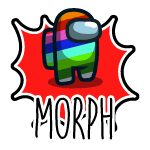
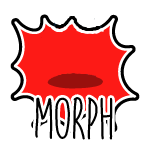
morphling show sampled player in button

Changed region(s): [[0.2667, 0.0533, 0.6933, 0.5867]]

diff --git a/TheOtherRoles/Buttons.cs b/TheOtherRoles/Buttons.cs
@@ -54,6 +54,7 @@ namespace TheOtherRoles
         public static Dictionary<byte, List<CustomButton>> deputyHandcuffedButtons = null;
 
         public static bool zoomOutStatus = false;
+        public static PoolablePlayer morphTargetDisplay;
 
         public static TMPro.TMP_Text securityGuardButtonScrewsText;
         public static TMPro.TMP_Text securityGuardChargesText;
@@ -413,6 +414,7 @@ namespace TheOtherRoles
             );
 
             // Morphling morph
+            
             morphlingButton = new CustomButton(
                 () => {
                     if (Morphling.sampledTarget != null) {
@@ -422,10 +424,25 @@ namespace TheOtherRoles
                         RPCProcedure.morphlingMorph(Morphling.sampledTarget.PlayerId);
                         Morphling.sampledTarget = null;
                         morphlingButton.EffectDuration = Morphling.duration;
+
                     } else if (Morphling.currentTarget != null) {
                         Morphling.sampledTarget = Morphling.currentTarget;
                         morphlingButton.Sprite = Morphling.getMorphSprite();
                         morphlingButton.EffectDuration = 1f;
+
+                        morphlingButton.actionButton.cooldownTimerText.transform.localPosition = new Vector3(0, 0, -1f);
+                        morphTargetDisplay = UnityEngine.Object.Instantiate<PoolablePlayer>(Patches.IntroCutsceneOnDestroyPatch.playerPrefab, morphlingButton.actionButton.transform);
+                        GameData.PlayerInfo data = Morphling.sampledTarget.Data;
+                        PlayerControl.SetPlayerMaterialColors(data.DefaultOutfit.ColorId, morphTargetDisplay.CurrentBodySprite.BodySprite);
+                        morphTargetDisplay.SetSkin(data.DefaultOutfit.SkinId, data.DefaultOutfit.ColorId);
+                        morphTargetDisplay.HatSlot.SetHat(data.DefaultOutfit.HatId, data.DefaultOutfit.ColorId);
+                        PlayerControl.SetPetImage(data.DefaultOutfit.PetId, data.DefaultOutfit.ColorId, morphTargetDisplay.PetSlot);
+                        morphTargetDisplay.NameText.text = data.PlayerName;
+
+                        morphTargetDisplay.transform.localPosition = new Vector3(0f, 0.2f, -0.01f);
+                        morphTargetDisplay.transform.localScale = Vector3.one * 0.33f;
+                        morphTargetDisplay.setSemiTransparent(false);
+                        morphTargetDisplay.gameObject.SetActive(true);
                     }
                 },
                 () => { return Morphling.morphling != null && Morphling.morphling == PlayerControl.LocalPlayer && !PlayerControl.LocalPlayer.Data.IsDead; },
@@ -436,6 +453,11 @@ namespace TheOtherRoles
                     morphlingButton.isEffectActive = false;
                     morphlingButton.actionButton.cooldownTimerText.color = Palette.EnabledColor;
                     Morphling.sampledTarget = null;
+                    if (morphTargetDisplay != null) {
+                        morphTargetDisplay.gameObject.SetActive(false);
+                        GameObject.Destroy(morphTargetDisplay.gameObject);
+                        morphTargetDisplay = null;
+                    }
                 },
                 Morphling.getSampleSprite(),
                 new Vector3(-1.8f, -0.06f, 0),
@@ -447,6 +469,10 @@ namespace TheOtherRoles
                     if (Morphling.sampledTarget == null) {
                         morphlingButton.Timer = morphlingButton.MaxTimer;
                         morphlingButton.Sprite = Morphling.getSampleSprite();
+
+                        morphTargetDisplay.gameObject.SetActive(false);
+                        GameObject.Destroy(morphTargetDisplay.gameObject);
+                        morphTargetDisplay = null;
                     }
                 }
             );

diff --git a/TheOtherRoles/Patches/IntroPatch.cs b/TheOtherRoles/Patches/IntroPatch.cs
@@ -10,6 +10,7 @@ namespace TheOtherRoles.Patches {
     [HarmonyPatch(typeof(IntroCutscene), nameof(IntroCutscene.OnDestroy))]
     class IntroCutsceneOnDestroyPatch
     {
+        public static PoolablePlayer playerPrefab;
         public static void Prefix(IntroCutscene __instance) {
             // Generate and initialize player icons
             int playerCounter = 0;
@@ -18,6 +19,7 @@ namespace TheOtherRoles.Patches {
                 foreach (PlayerControl p in PlayerControl.AllPlayerControls) {
                     GameData.PlayerInfo data = p.Data;
                     PoolablePlayer player = UnityEngine.Object.Instantiate<PoolablePlayer>(__instance.PlayerPrefab, HudManager.Instance.transform);
+                    playerPrefab = __instance.PlayerPrefab;
                     PlayerControl.SetPlayerMaterialColors(data.DefaultOutfit.ColorId, player.CurrentBodySprite.BodySprite);
                     player.SetSkin(data.DefaultOutfit.SkinId, data.DefaultOutfit.ColorId);
                     player.HatSlot.SetHat(data.DefaultOutfit.HatId, data.DefaultOutfit.ColorId);
